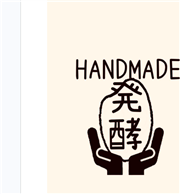
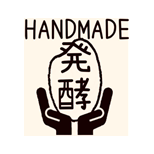
ロゴアイコンの位置ずれを修正
- 元画像の左余白・位置ずれを検出してコンテンツ領域を正確にトリミング
- 正方形キャンバスにコンテンツを中央配置して再生成
- imgのborder-radius二重適用を削除

Changed region(s): [[0.1558, 0.1039, 1.0, 0.9091]]

diff --git a/index.html b/index.html
@@ -42,15 +42,17 @@
   }
   .header-inner { max-width: 600px; margin: 0 auto; display: flex; align-items: center; gap: 12px; }
   .logo-img-wrap {
-    width: 52px;
-    height: 52px;
+    width: 56px;
+    height: 56px;
     border-radius: 50%;
-    overflow: hidden;
     flex-shrink: 0;
     border: 2px solid var(--border);
     background: #fff;
+    display: flex;
+    align-items: center;
+    justify-content: center;
   }
-  .logo-img { width: 100%; height: 100%; object-fit: cover; display: block; }
+  .logo-img { width: 48px; height: 48px; object-fit: contain; display: block; }
   .logo {
     font-family: 'Noto Serif JP', serif;
     font-size: 20px;
@@ -373,7 +375,7 @@
 <body>
 <header>
   <div class="header-inner">
[2 lines of base64/hex data omitted]
     <div class="logo">発酵キッチン<span>家事代行レシピ</span></div>
   </div>
 </header>
